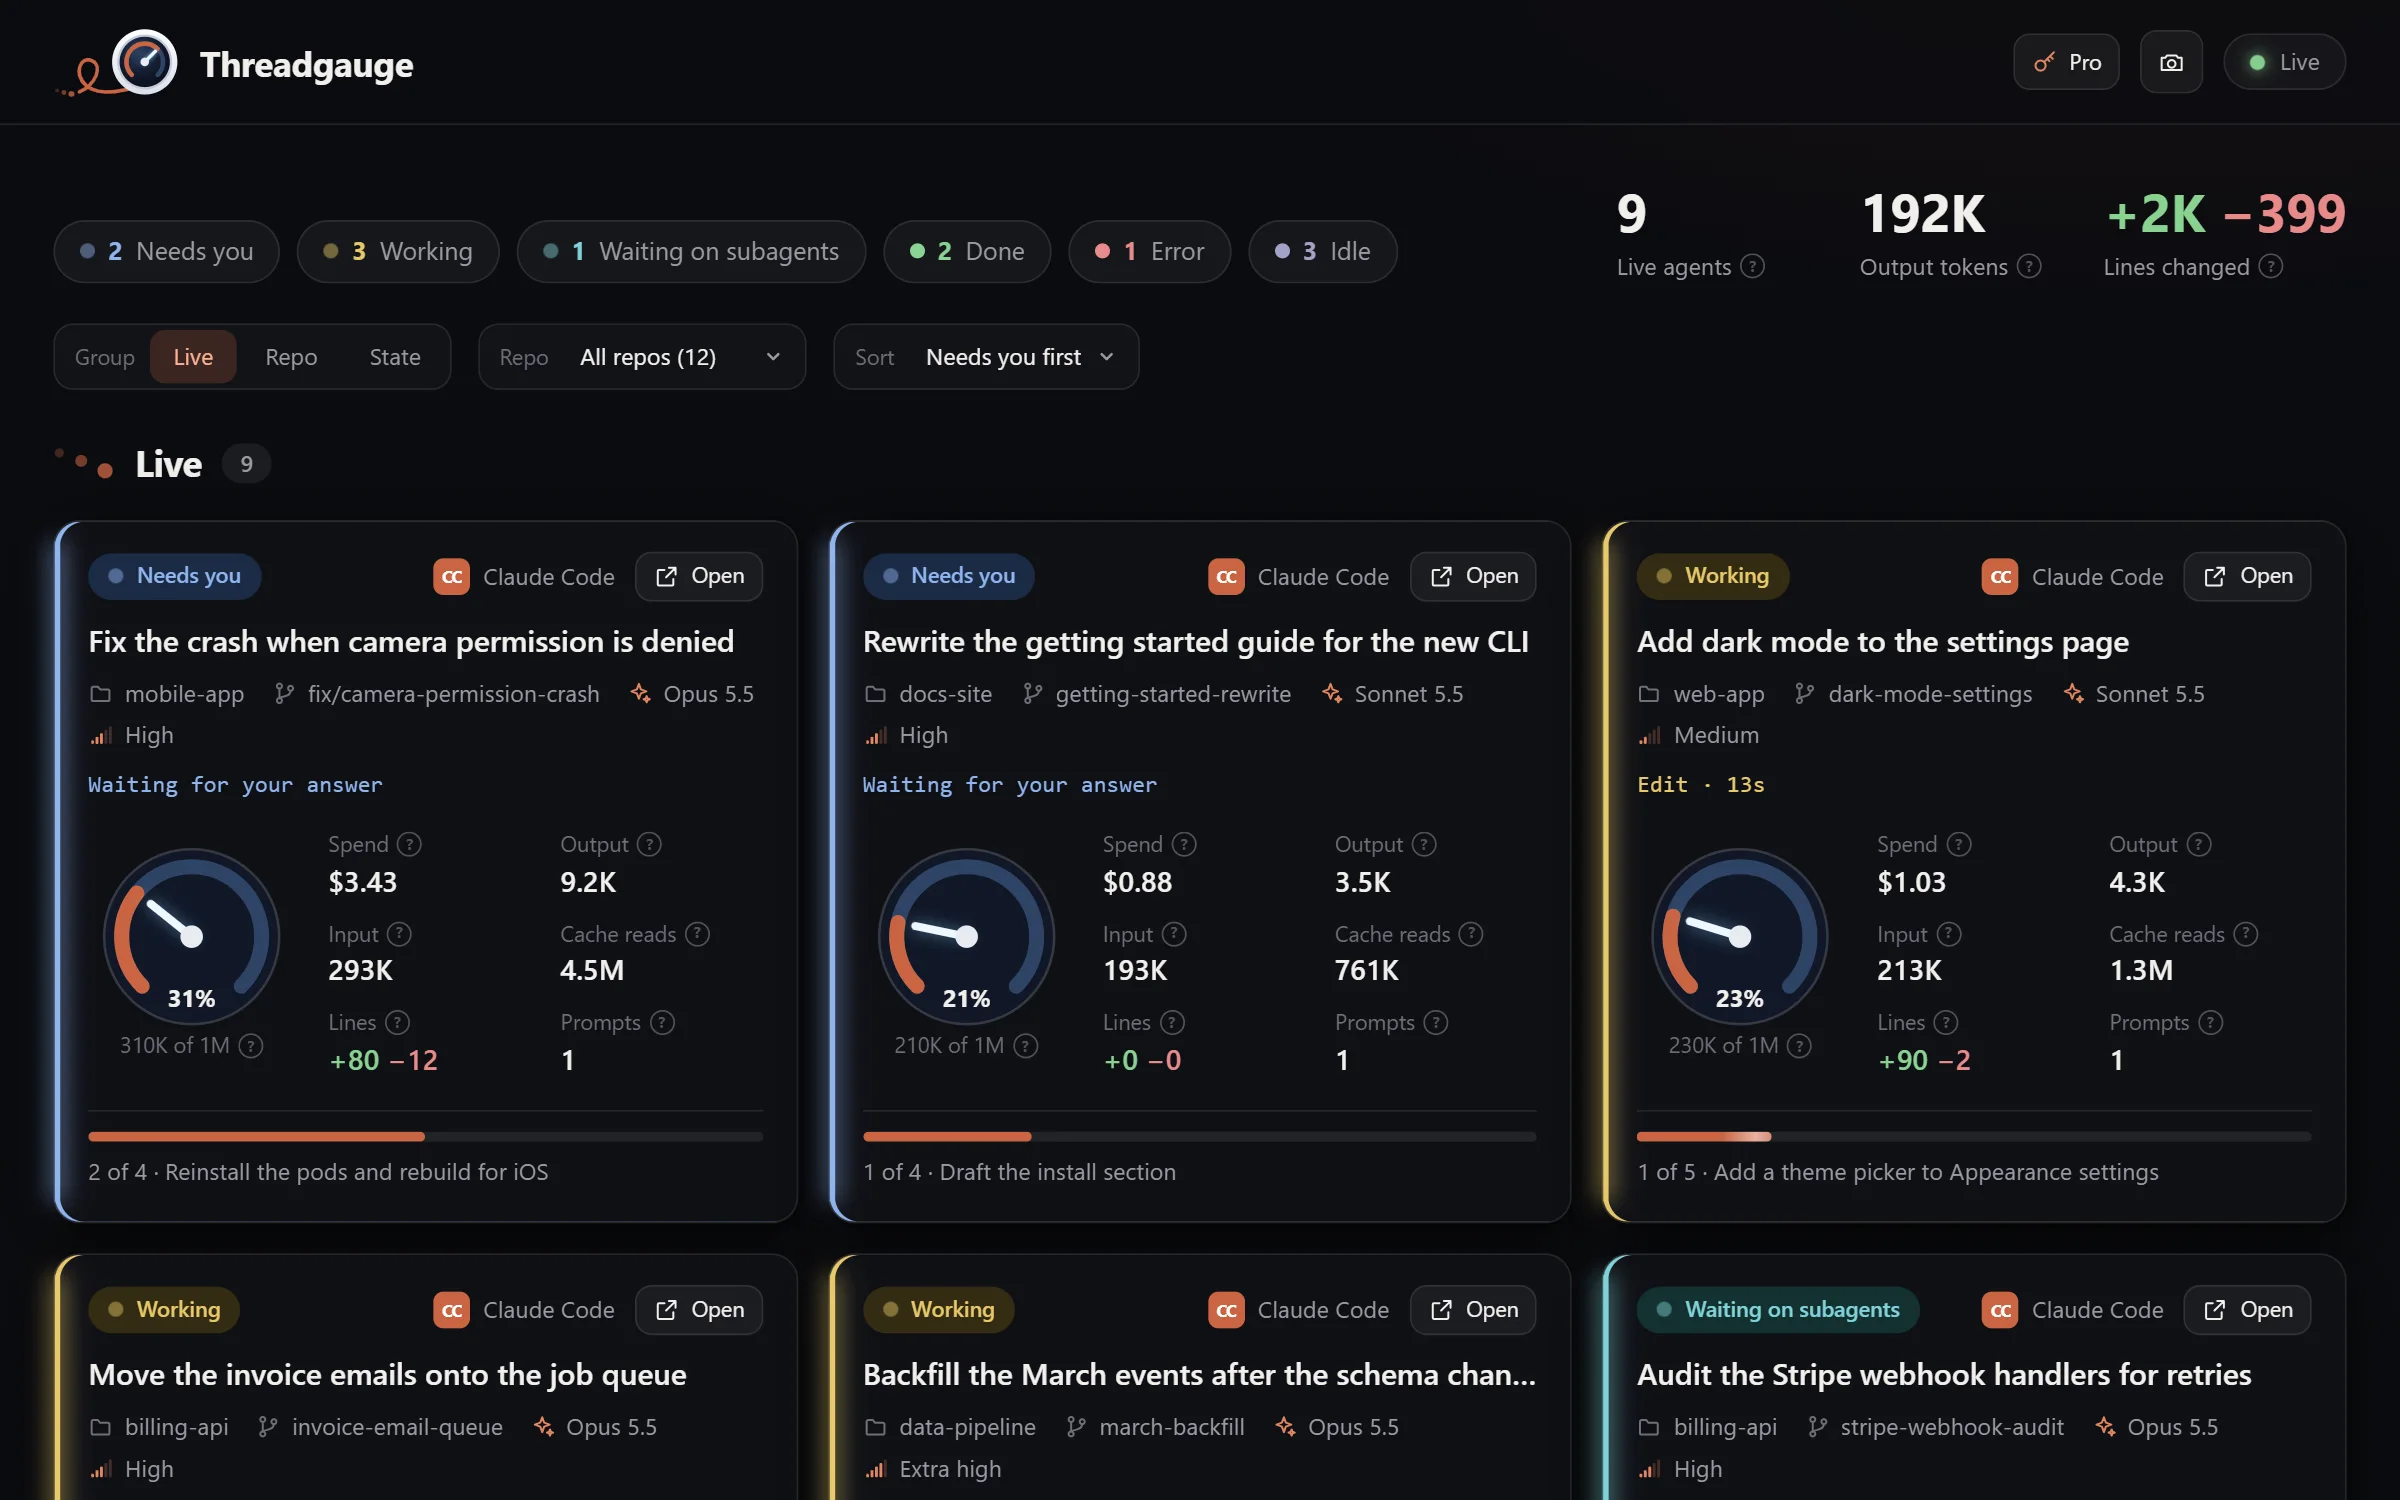
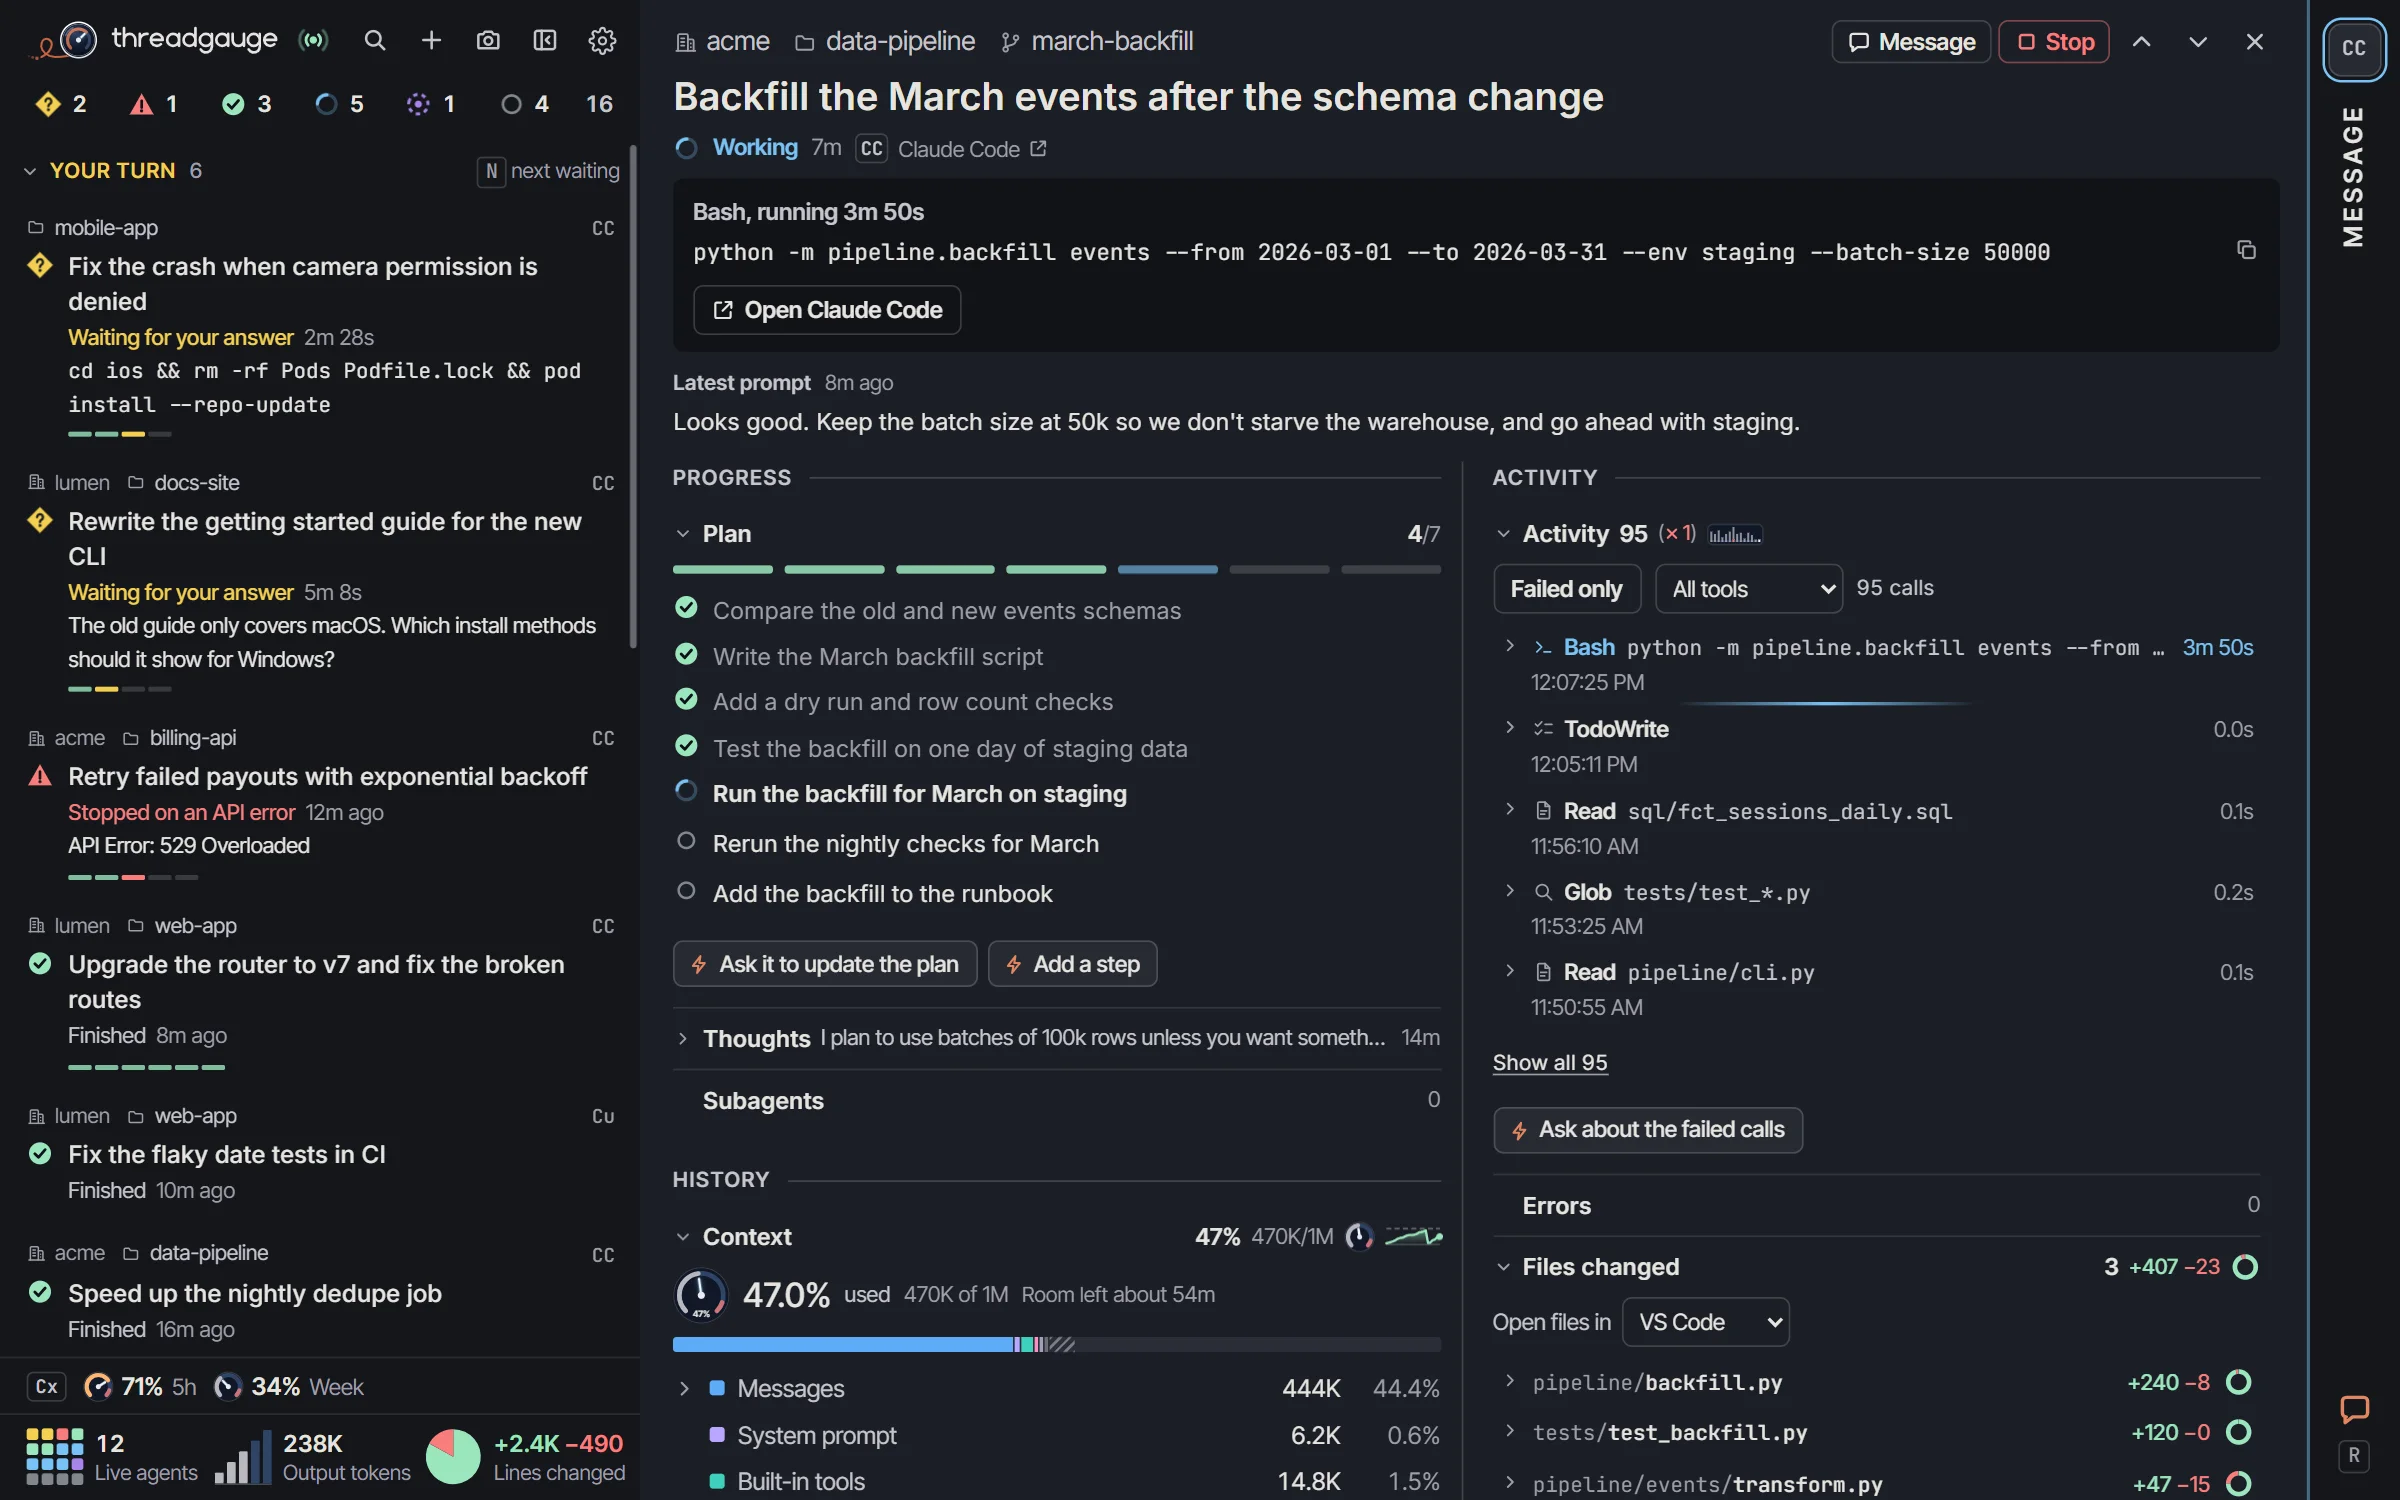
Show today's Threadgauge in the README, say every detail is free and Pro is agent controls, and cover agent controls in the privacy doc

diff --git a/README.md b/README.md
@@ -16,7 +16,7 @@
   <a href="https://github.com/threadcrumbs/threadgauge-community/discussions">Discussions</a>
 </p>
 
-![The Threadgauge dashboard: a card for each agent thread, with its status, current tool, context gauge, tokens, spend, lines changed, and plan](media/dashboard.webp)
+![The Threadgauge dashboard: every agent thread in one list with its status and current tool, and the selected thread's plan, context, activity, and files changed beside it](media/dashboard.webp)
 
 Threadgauge is a live dashboard of every coding-agent thread on your computer. For each one, it
 shows the tool it's running, how full its context window is, what it has cost, how much code it
@@ -46,24 +46,28 @@ at once. To hear about new releases, choose **Watch → Custom → Releases** at
 | **[Cursor](https://cursor.com)** | Status, the tool it last called, plan, and subagents. Cursor saves no tokens, context, or spend |
 | **[Antigravity CLI](https://antigravity.google)** | Status and plan |
 
-Where a harness doesn't record something, the card shows "—" instead of a guess. More in
+Where a harness doesn't record something, Threadgauge shows "—" instead of a guess. More in
 [docs/harnesses.md](docs/harnesses.md). Using another harness?
 [Ask for it](https://github.com/threadcrumbs/threadgauge-community/issues/new?template=harness.yml).
 
 ## Every thread's whole story
 
-Free, Threadgauge is the whole live dashboard: every card, the totals, grouping and filters, and
-an Open button that takes you back to any thread in its own harness. **Threadgauge Pro** adds each
-thread's details beside it: what filled its context, its context over time, its plan, every tool
-call, its subagents, the files it changed, its prompts, and its errors. Prices are at
-[threadgauge.io/pro](https://threadgauge.io/pro).
+Everything Threadgauge shows is free: the live list, the totals, grouping and filters, and each
+thread's details beside it. That's what filled its context, its context over time, its plan, every
+tool call, its subagents, the files it changed, its conversation, and its errors. Open takes you
+back to any thread in its own harness.
+
+**Threadgauge Pro** adds agent controls: answer a thread's questions and approvals, message it now
+or when its turn ends, stop and start agents, and run your own prompts and actions on one thread or
+many. Prices are at [threadgauge.io/pro](https://threadgauge.io/pro).
 
 ![A thread's details panel: its vitals, context, plan, and activity](media/details.webp)
 
 ## It stays on your computer
 
-- **It only reads.** Threadgauge reads each harness's own files on your computer, and it never
-  writes to a harness.
+- **It reads, unless you turn on more.** Threadgauge reads each harness's own files on your
+  computer. It writes to a harness only when you turn on agent controls for it, after listing every
+  file it writes, and Undo removes them.
 - **Nothing to sign up for.** There's no account and no sign-in, and Threadgauge reports nothing
   back to us.
 - **Your work stays put.** Your threads, code, and project names never leave your computer.
@@ -86,14 +90,15 @@ The details are in [docs/privacy.md](docs/privacy.md).
 ## Also from Threadcrumbs
 
 **[Threadnauts](https://threadnauts.io)** shows the same threads as little bots in a 3D colony,
-one zone for each repo, and it's out now. When both are running, each one links to the other, and a
-bot's card shows its thread's context from Threadgauge.
+one zone for each repo, and it's out now. When both are running, each one links to the other, a
+bot's card shows its thread's context from Threadgauge, and its Commander sends prompts and actions
+through Threadgauge Pro.
 
 ## License
 
 The docs, forms, and pictures in this repo are under [CC BY 4.0](LICENSE): share and adapt them,
-with credit to Threadcrumbs LLC. Threadgauge itself isn't in this repo. It will be free to use
-under its own license, which ships with the app. The names Threadgauge, Threadnauts, and
+with credit to Threadcrumbs LLC. Threadgauge itself isn't in this repo. It's free to use under its
+own license, which ships with the app. The names Threadgauge, Threadnauts, and
 Threadcrumbs, their logos, and Baut aren't licensed for reuse, except to refer to the apps.
 
 ## Credits

diff --git a/docs/privacy.md b/docs/privacy.md
@@ -6,8 +6,9 @@ your browser. There's no account and no sign-in.
 | | |
 | --- | --- |
 | **Reads** | Your harnesses' own session records and transcripts |
-| **Writes** | Nothing, until you enter a Pro license key. Then it writes the license to `license.json` in the shared Threadcrumbs folder. Your dashboard choices are kept in your browser |
-| **Never writes** | Anything belonging to a harness |
+| **Writes** | Nothing, until you enter a Pro license key. Then it writes the license to `license.json` in the shared Threadcrumbs folder. With agent controls on, it keeps its own `agent-controls` folder there: a log of every answer, message, stop, and start, your saved prompts and actions, and its settings. Your dashboard choices are kept in your browser |
+| **Writes to a harness** | Only when you turn on agent controls for it, after listing every file it writes, such as Claude Code's hooks in its `settings.json`. Messages between agents adds an entry to each harness's MCP settings. Undo removes them, and leaves only the log and your saved prompts and actions |
+| **Runs** | Only when you ask: a missing harness's install command from its vendor, shown before it runs, and a terminal for that harness's own sign-in |
 | **Sends** | Nothing, without Pro. With Pro: your license key and a random ID for this computer when you activate, then the license itself, to renew it about once a week |
 | **Never sends** | Your threads, code, prompts, or project names. There's no telemetry |
 
@@ -22,6 +23,10 @@ Linux. Every Threadcrumbs app shares it, so a license entered in one counts in t
   website.
 - **Its own script only:** the page runs only its own script, can't be put in a frame, and talks
   only to this server.
+- **Your harnesses' hooks:** with agent controls on, Claude Code's hooks call it, signed with a
+  secret only this computer holds.
+- **Apps you allow:** Threadnauts sends prompts and actions through it only after you turn on Let
+  Threadnauts send in Settings › Agent controls.
 
 `THREADGAUGE_HOST` changes the address it listens on, and `THREADGAUGE_ALLOWED_HOSTS` lists other
 names it answers to, comma separated. **Anyone who can reach the port sees every thread's title,
